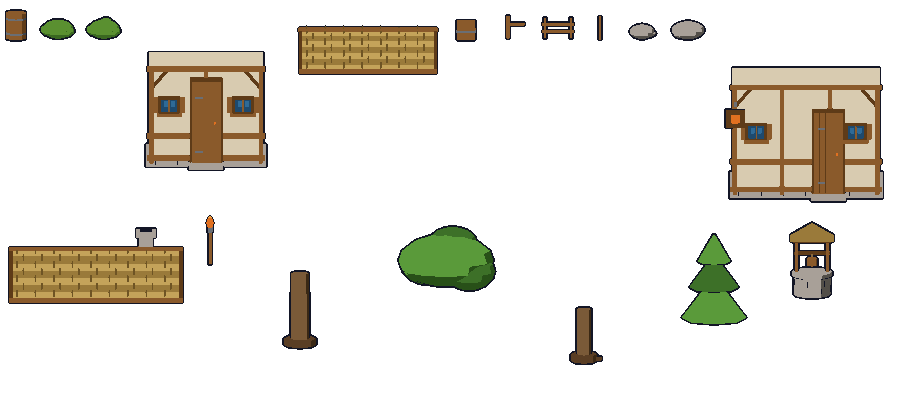
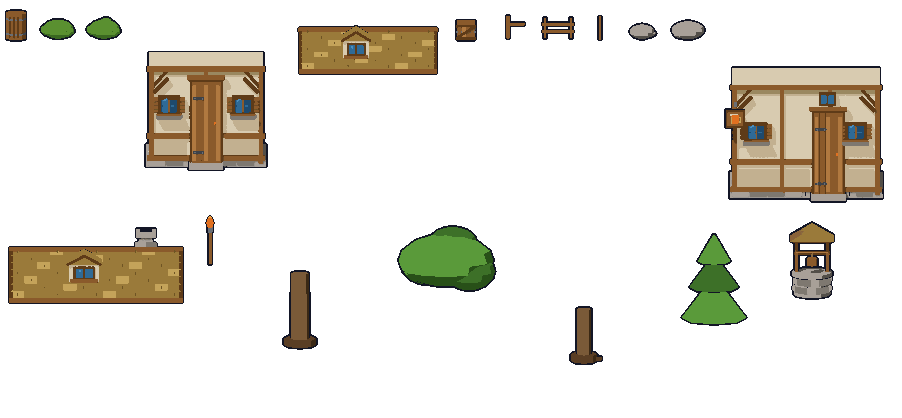
[O-V5-1] Swap six approved v5 tile PNGs
Replace the v4 dungeon, interior, and village prop sheets with the Nov 11 v5 bytes and record the new sizes in MANIFEST.md. Sidecars stay unchanged.

diff --git a/art-source/blendsmith/tiles/MANIFEST.md b/art-source/blendsmith/tiles/MANIFEST.md
@@ -1,4 +1,5 @@
 # AS-2 v4 manifest
+AS-2 v5 visual swap (approved by Grant 2026-11-09): 6 PNGs replaced, all metadata unchanged.
 
 LOCAL art scope complete; not game-integrated or approved.
 15 tilesets,222 tile IDs,20 logical props. No character asset changes.
@@ -11,13 +12,13 @@ LOCAL art scope complete; not game-integrated or approved.
 | ground/cliff_face | 136x34 | 0..3 | 4 | none | 528 | 2564 |
 | ground/cobble_road | 136x136 | 0..15 | 16 | none | 1922 | 18173 |
 | ground/dirt_road | 136x136 | 0..15 | 16 | none | 1757 | 18167 |
-| ground/dungeon_floor | 102x68 | 0..5 | 6 | none | 817 | 3288 |
+| ground/dungeon_floor | 102x68 | 0..5 | 6 | none | 1006 | 3288 |
 | ground/dungeon_wall | 136x34 | 0..3 | 4 | none | 292 | 2568 |
 | ground/grass | 136x68 | 0..7 | 8 | none | 1227 | 3986 |
-| ground/interior_market_floor | 136x34 | 0..3 | 4 | none | 416 | 2590 |
-| ground/interior_market_wall | 136x34 | 0..3 | 4 | none | 312 | 2584 |
-| ground/interior_tavern_floor | 136x34 | 0..3 | 4 | none | 376 | 2590 |
-| ground/interior_tavern_wall | 136x34 | 0..3 | 4 | none | 265 | 2584 |
+| ground/interior_market_floor | 136x34 | 0..3 | 4 | none | 584 | 2590 |
+| ground/interior_market_wall | 136x34 | 0..3 | 4 | none | 443 | 2584 |
+| ground/interior_tavern_floor | 136x34 | 0..3 | 4 | none | 526 | 2590 |
+| ground/interior_tavern_wall | 136x34 | 0..3 | 4 | none | 405 | 2584 |
 | ground/water | 136x544 | 0..63 | 61 | wet1..15:4x160ms | 8280 | 62939 |
 | ground/water_ford | 136x34 | 0..3 | 4 | none | 1170 | 2568 |
 | ground/water_shore | 136x544 | 0..63 | 61 | wet1..15:4x160ms | 8206 | 62957 |
@@ -25,7 +26,7 @@ LOCAL art scope complete; not game-integrated or approved.
 ## Prop atlases
 | Atlas | Image px | Frames | Origin | Anims | PNG bytes | JSON bytes |
 |---|---|---:|---|---|---:|---:|
-| props/village_props | 902x418 | 19 | 0.5,1.0 | static | 10141 | 16819 |
+| props/village_props | 902x418 | 19 | 0.5,1.0 | static | 14872 | 16819 |
 | props/hearth | 576x96 | 6 | 0.5,1.0 | burn6@8fps loop | 2571 | 3090 |
 
 | Prop | Canvas | Footprint x,y,w,h,shape | Layer |
@@ -71,19 +72,19 @@ MANIFEST.md itself excluded to avoid self-reference.
 | ground/cobble_road.tsj | 18173 | e14764c031496a906bd78aa968b5cd841d55af05ddcbb74f425d0ac8389ec21b |
 | ground/dirt_road.png | 1757 | 5ae57b29928562f2277fa2dcd6368248f8e3e920dc97b3208606e5b49ea2553e |
 | ground/dirt_road.tsj | 18167 | ef037d5b6ad5b3001dfc242882df4d055ede67084aa6e82dd61eff0236e91abf |
-| ground/dungeon_floor.png | 817 | 5a7a1785667e91c7318c474615da74447edffd0f52b184bdffba5e924369f44e |
+| ground/dungeon_floor.png | 1006 | b792ec95e4b99e1cde20642cea16eb6d2df6b1537de47f7b2f74dafd5c99eded |
 | ground/dungeon_floor.tsj | 3288 | aa685e7ebbb469bab852b00107efd0877ba41e4fe46d41d3f25e7aae44212a35 |
 | ground/dungeon_wall.png | 292 | b0e3a4a4705fe945dbdc21c08ba8829d8ff1242cabb73679ee8d3550906bd1ca |
 | ground/dungeon_wall.tsj | 2568 | 4358a559afc8271dddc85412e08bf479b77780f2031976b9ec5cb36102259132 |
 | ground/grass.png | 1227 | a9de1f1861dedf3b4e50d441826213b15492f8496a250df0b24380828084fed6 |
 | ground/grass.tsj | 3986 | 6629ad7f81cec7c4534d15c70c0e226b6fbad71d74c923ad71ae03f773faddbb |
-| ground/interior_market_floor.png | 416 | 4db23c10df02cde5d818c0ab1939b670a01159a7f4c952286cb182f4ea73f64c |
+| ground/interior_market_floor.png | 584 | 014905f5d28d87af37750c98b61d91f6934a0cf4ccf61340be51da887e07292d |
 | ground/interior_market_floor.tsj | 2590 | 2ec7162023ed2f4f024b4cd63887e0e713a1feb3eeefb7d7ff913bbfb4bea16d |
-| ground/interior_market_wall.png | 312 | 497b2355bc999619c463cbdbfd3c8b843fe66589baa742ae100c3b04cfedd796 |
+| ground/interior_market_wall.png | 443 | f00675360e7b0bcc3151b6c554344321e9159ff347ddaa3b92b35bcad56341ec |
 | ground/interior_market_wall.tsj | 2584 | 5185184d320f3e30ca0071f764408d6a421f18e7555d71512ce30b4656c71f3c |
-| ground/interior_tavern_floor.png | 376 | f14f73faaf39ee6df5ace2345eb7d74762300aacf85baf348b35c67a9cd0c1a0 |
+| ground/interior_tavern_floor.png | 526 | 6e0cab777d77df6996ce5edfe6e06732cd2bbee9c6cb36ce601e5478c49946dc |
 | ground/interior_tavern_floor.tsj | 2590 | f444ba46e5949594527ef0662187de8883d2351a84f7aeb461be5790c03ecb28 |
-| ground/interior_tavern_wall.png | 265 | 255150f43aa7f2828abeb7466787630f4ea12cf59832edccb2d64ddac482cffe |
+| ground/interior_tavern_wall.png | 405 | f2a4c163edabc3b9190cd7be525eaee9d563533d8ff0fed5f81de16227120fa3 |
 | ground/interior_tavern_wall.tsj | 2584 | c14124dcde7e0a22875563a4e0179f2385d21c1f5fab904c650e72440109d23f |
 | ground/water.png | 8280 | d9f286d1b44220e87129d61ec5ed677460539ce5aeaad5a6fbb463dc94e8dfe4 |
 | ground/water.tsj | 62939 | 5924788df478fa33b2a623575f7e945bbf28d509eaceaf9a4d2bdcc1c45b91a7 |
@@ -97,4 +98,4 @@ MANIFEST.md itself excluded to avoid self-reference.
 | props/hearth.png | 2571 | 2d6f08c34adc4b80a2259f7c70b88ce9b8530a198052be566dc07b5dac09c0de |
 | props/pairing.json | 1003 | 2d0a818517f2e1e06052a63a0968846db10ccedc87e3da67e540424b0c3416d6 |
 | props/village_props.json | 16819 | 0df69b8cf9e2f14308b281c50678efce2b8208f41465370fd8f7de831fd9ddf9 |
-| props/village_props.png | 10141 | 2a551ae389f98d94ba5b0001c0b29b8fc2f1de802b1c4cb3412e2ddbcc673ac3 |
+| props/village_props.png | 14872 | ef39c4743149f5d142912f7ff4255238521a32af3b6f7a0dc72a4eab02d34f95 |
